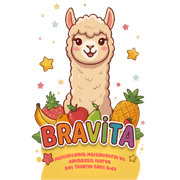
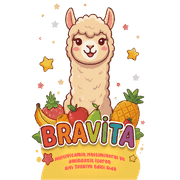
feat: implement SEO-optimized shell loading sequence and structured data for index page

diff --git a/src/pages/Index.tsx b/src/pages/Index.tsx
@@ -1,7 +1,6 @@
 import { lazy, Suspense, useEffect, useState } from "react";
 import Header from "@/components/layout/Header";
 import Hero from "@/components/landing/Hero";
-import Testimonials from "@/components/landing/Testimonials";
 import ScrollReveal from "@/components/ui/scroll-reveal";
 import LazySection from "@/components/ui/lazy-section";
 
@@ -12,6 +11,7 @@ const Ingredients = lazy(() => import("@/components/landing/Ingredients"));
 const Usage = lazy(() => import("@/components/landing/Usage"));
 const About = lazy(() => import("@/components/landing/About"));
 const Faq = lazy(() => import("@/components/landing/Faq"));
+const Testimonials = lazy(() => import("@/components/landing/Testimonials"));
 const Footer = lazy(() => import("@/components/layout/Footer"));
 
 const bravitaGif = "/bravita.gif";
@@ -38,41 +38,41 @@ const Index = () => {
   );
 
   const canonicalUrl = "https://bravita.com.tr";
-  const pageTitle = "Bravita | Çocuklar İçin Sıvı Multivitamin";
+  const pageTitle = "Bravita | Çocuklar İçin Sıvı Multivitamin Takviyesi";
   const pageDescription = "Bravita, çocukların günlük gelişimini desteklemek için vitamin, mineral ve seçili besin öğeleri içeren sıvı takviye edici gıdadır.";
   const socialDescription = "Çocukların günlük gelişimini desteklemek için geliştirilen sıvı multivitamin ve mineral takviyesi.";
   const skipToContentLabel = t("accessibility.skip_to_content", "Ana içeriğe geç");
-  const structuredData = [
-    {
-      "@context": "https://schema.org",
-      "@type": "WebSite",
+  const websiteStructuredData = {
+    "@context": "https://schema.org",
+    "@type": "WebSite",
+    name: "Bravita",
+    url: canonicalUrl,
+    inLanguage: "tr-TR",
+  };
+
+  const organizationStructuredData = {
+    "@context": "https://schema.org",
+    "@type": "Organization",
+    name: "Bravita",
+    url: canonicalUrl,
+    logo: `${canonicalUrl}/apple-touch-icon.png`,
+    email: "[email redacted]",
+    telephone: "[phone redacted]",
+  };
+
+  const productStructuredData = {
+    "@context": "https://schema.org",
+    "@type": "Product",
+    name: "Bravita Çocuklar İçin Sıvı Multivitamin",
+    description: pageDescription,
+    image: `${canonicalUrl}/og-image.webp`,
+    url: canonicalUrl,
+    category: "DietarySupplement",
+    brand: {
+      "@type": "Brand",
       name: "Bravita",
-      url: canonicalUrl,
-      inLanguage: "tr-TR",
     },
-    {
-      "@context": "https://schema.org",
-      "@type": "Organization",
-      name: "Bravita",
-      url: canonicalUrl,
-      logo: `${canonicalUrl}/apple-touch-icon.png`,
-      email: "[email redacted]",
-      telephone: "[phone redacted]",
-    },
-    {
-      "@context": "https://schema.org",
-      "@type": "Product",
-      name: "Bravita Çocuklar İçin Sıvı Multivitamin",
-      description: pageDescription,
-      image: `${canonicalUrl}/og-image.webp`,
-      url: canonicalUrl,
-      category: "DietarySupplement",
-      brand: {
-        "@type": "Brand",
-        name: "Bravita",
-      },
-    },
-  ];
+  };
 
   useEffect(() => {
     const trackLegalHashIntent = () => {
@@ -113,7 +113,9 @@ const Index = () => {
         <meta name="twitter:description" content={socialDescription} />
         <meta name="twitter:image" content={`${canonicalUrl}/og-image.webp`} />
         <meta name="twitter:image:alt" content="Bravita çocuklar için sıvı multivitamin" />
-        <script type="application/ld+json">{JSON.stringify(structuredData)}</script>
+        <script type="application/ld+json">{JSON.stringify(websiteStructuredData)}</script>
+        <script type="application/ld+json">{JSON.stringify(organizationStructuredData)}</script>
+        <script type="application/ld+json">{JSON.stringify(productStructuredData)}</script>
       </Helmet>
       <a
         href="#main-content"
@@ -165,7 +167,11 @@ const Index = () => {
           </Suspense>
         </LazySection>
 
-        <Testimonials />
+        <LazySection placeholder={<SectionFallback minHeight="110vh" />} rootMargin="200px 0px">
+          <Suspense fallback={<SectionFallback minHeight="110vh" />}>
+            <Testimonials />
+          </Suspense>
+        </LazySection>
 
         <LazySection id="faq" className="scroll-mt-25 w-full" placeholder={<SectionFallback minHeight="55vh" />} rootMargin="250px 0px">
           <Suspense fallback={<SectionFallback minHeight="55vh" />}>

diff --git a/index.html b/index.html
@@ -4,7 +4,7 @@
 <head>
   <meta charset="UTF-8" />
   <meta name="viewport" content="width=device-width, initial-scale=1.0, maximum-scale=5.0" />
-  <title>Bravita | Çocuklar İçin Sıvı Multivitamin</title>
+  <title>Bravita | Çocuklar İçin Sıvı Multivitamin Takviyesi</title>
   <meta name="description"
     content="Bravita, çocukların günlük gelişimini desteklemek için vitamin, mineral ve seçili besin öğeleri içeren sıvı takviye edici gıdadır." />
   <meta name="keywords"
@@ -12,7 +12,7 @@
   <meta name="author" content="Bravita" />
   <link rel="canonical" href="https://bravita.com.tr" />
 
-  <meta property="og:title" content="Bravita | Çocuklar İçin Sıvı Multivitamin" />
+  <meta property="og:title" content="Bravita | Çocuklar İçin Sıvı Multivitamin Takviyesi" />
   <meta property="og:description"
     content="Çocukların günlük gelişimini desteklemek için geliştirilen sıvı multivitamin ve mineral takviyesi." />
   <meta property="og:type" content="website" />
@@ -27,43 +27,45 @@
 
   <meta name="twitter:card" content="summary_large_image" />
   <meta name="twitter:site" content="@Bravita" />
-  <meta name="twitter:title" content="Bravita | Çocuklar İçin Sıvı Multivitamin" />
+  <meta name="twitter:title" content="Bravita | Çocuklar İçin Sıvı Multivitamin Takviyesi" />
   <meta name="twitter:description"
     content="Çocukların günlük gelişimini desteklemek için geliştirilen sıvı multivitamin ve mineral takviyesi." />
   <meta name="twitter:image" content="https://bravita.com.tr/og-image.webp" />
 
   <script type="application/ld+json">
-    [
-      {
-        "@context": "https://schema.org",
-        "@type": "WebSite",
-        "name": "Bravita",
-        "url": "https://bravita.com.tr",
-        "inLanguage": "tr-TR"
+    {
+      "@context": "https://schema.org",
+      "@type": "WebSite",
+      "name": "Bravita",
+      "url": "https://bravita.com.tr",
+      "inLanguage": "tr-TR"
+    }
+  </script>
+  <script type="application/ld+json">
+    {
+      "@context": "https://schema.org",
+      "@type": "Organization",
+      "name": "Bravita",
+      "url": "https://bravita.com.tr",
+      "logo": "https://bravita.com.tr/apple-touch-icon.png",
+      "email": "[email redacted]",
+      "telephone": "[phone redacted]"
+    }
+  </script>
+  <script type="application/ld+json">
+    {
+      "@context": "https://schema.org",
+      "@type": "Product",
+      "name": "Bravita Çocuklar İçin Sıvı Multivitamin",
+      "brand": {
+        "@type": "Brand",
+        "name": "Bravita"
       },
-      {
-        "@context": "https://schema.org",
-        "@type": "Organization",
-        "name": "Bravita",
-        "url": "https://bravita.com.tr",
-        "logo": "https://bravita.com.tr/apple-touch-icon.png",
-        "email": "[email redacted]",
-        "telephone": "[phone redacted]"
-      },
-      {
-        "@context": "https://schema.org",
-        "@type": "Product",
-        "name": "Bravita Çocuklar İçin Sıvı Multivitamin",
-        "brand": {
-          "@type": "Brand",
-          "name": "Bravita"
-        },
-        "category": "DietarySupplement",
-        "description": "Bravita, çocukların günlük gelişimini desteklemek için vitamin, mineral ve seçili besin öğeleri içeren sıvı takviye edici gıdadır.",
-        "image": "https://bravita.com.tr/og-image.webp",
-        "url": "https://bravita.com.tr"
-      }
-    ]
+      "category": "DietarySupplement",
+      "description": "Bravita, çocukların günlük gelişimini desteklemek için vitamin, mineral ve seçili besin öğeleri içeren sıvı takviye edici gıdadır.",
+      "image": "https://bravita.com.tr/og-image.webp",
+      "url": "https://bravita.com.tr"
+    }
   </script>
 
   <link rel="preconnect" href="https://fonts.googleapis.com" />

diff --git a/src/pages/NotFound.tsx b/src/pages/NotFound.tsx
@@ -1,7 +1,18 @@
+import { lazy, Suspense } from "react";
 import { m } from "framer-motion";
-import { DotLottieReact } from "@lottiefiles/dotlottie-react";
 import notFoundAnimation from "@/assets/404-not-found.lottie";
 import bravitaLogo from "@/assets/bravita-logo.webp";
+
+const DotLottiePlayer = lazy(async () => {
+  const [{ DotLottieReact, setWasmUrl }, { default: wasmUrl }] = await Promise.all([
+    import("@lottiefiles/dotlottie-react"),
+    import("@lottiefiles/dotlottie-web/dist/dotlottie-player.wasm?url"),
+  ]);
+
+  setWasmUrl(wasmUrl);
+
+  return { default: DotLottieReact };
+});
 
 const NotFound = () => {
   return (
@@ -14,13 +25,17 @@ const NotFound = () => {
       >
         {/* Lottie Animation */}
         <div className="flex justify-center overflow-hidden">
-          <div className="-my-12">
-            <DotLottieReact
-              src={notFoundAnimation}
-              loop
-              autoplay
-              style={{ width: "600px", height: "600px" }}
-            />
+          <div className="-my-12 min-h-[600px]">
+            <Suspense
+              fallback={<div aria-hidden="true" style={{ width: "600px", height: "600px" }} />}
+            >
+              <DotLottiePlayer
+                src={notFoundAnimation}
+                loop
+                autoplay
+                style={{ width: "600px", height: "600px" }}
+              />
+            </Suspense>
           </div>
         </div>
 

diff --git a/src/main.tsx b/src/main.tsx
@@ -1,6 +1,4 @@
 import { createRoot } from "react-dom/client";
-import { setWasmUrl } from "@lottiefiles/dotlottie-react";
-import wasmUrl from "@lottiefiles/dotlottie-web/dist/dotlottie-player.wasm?url";
 import heroShellLcpImageSrc from "@/assets/bravita-bottle1.webp";
 import App from "./App.tsx";
 import "./index.css";
@@ -8,8 +6,6 @@ import "./i18n/config";
 import { AuthProvider } from "./contexts/AuthContext";
 import { CartProvider } from "./contexts/CartContext";
 import { HelmetProvider } from "react-helmet-async";
-
-setWasmUrl(wasmUrl);
 
 const HERO_SHELL_LCP_IMAGE_SRC = heroShellLcpImageSrc;
 const SEO_LOADER_GIF_SRC = "/bravita.gif";